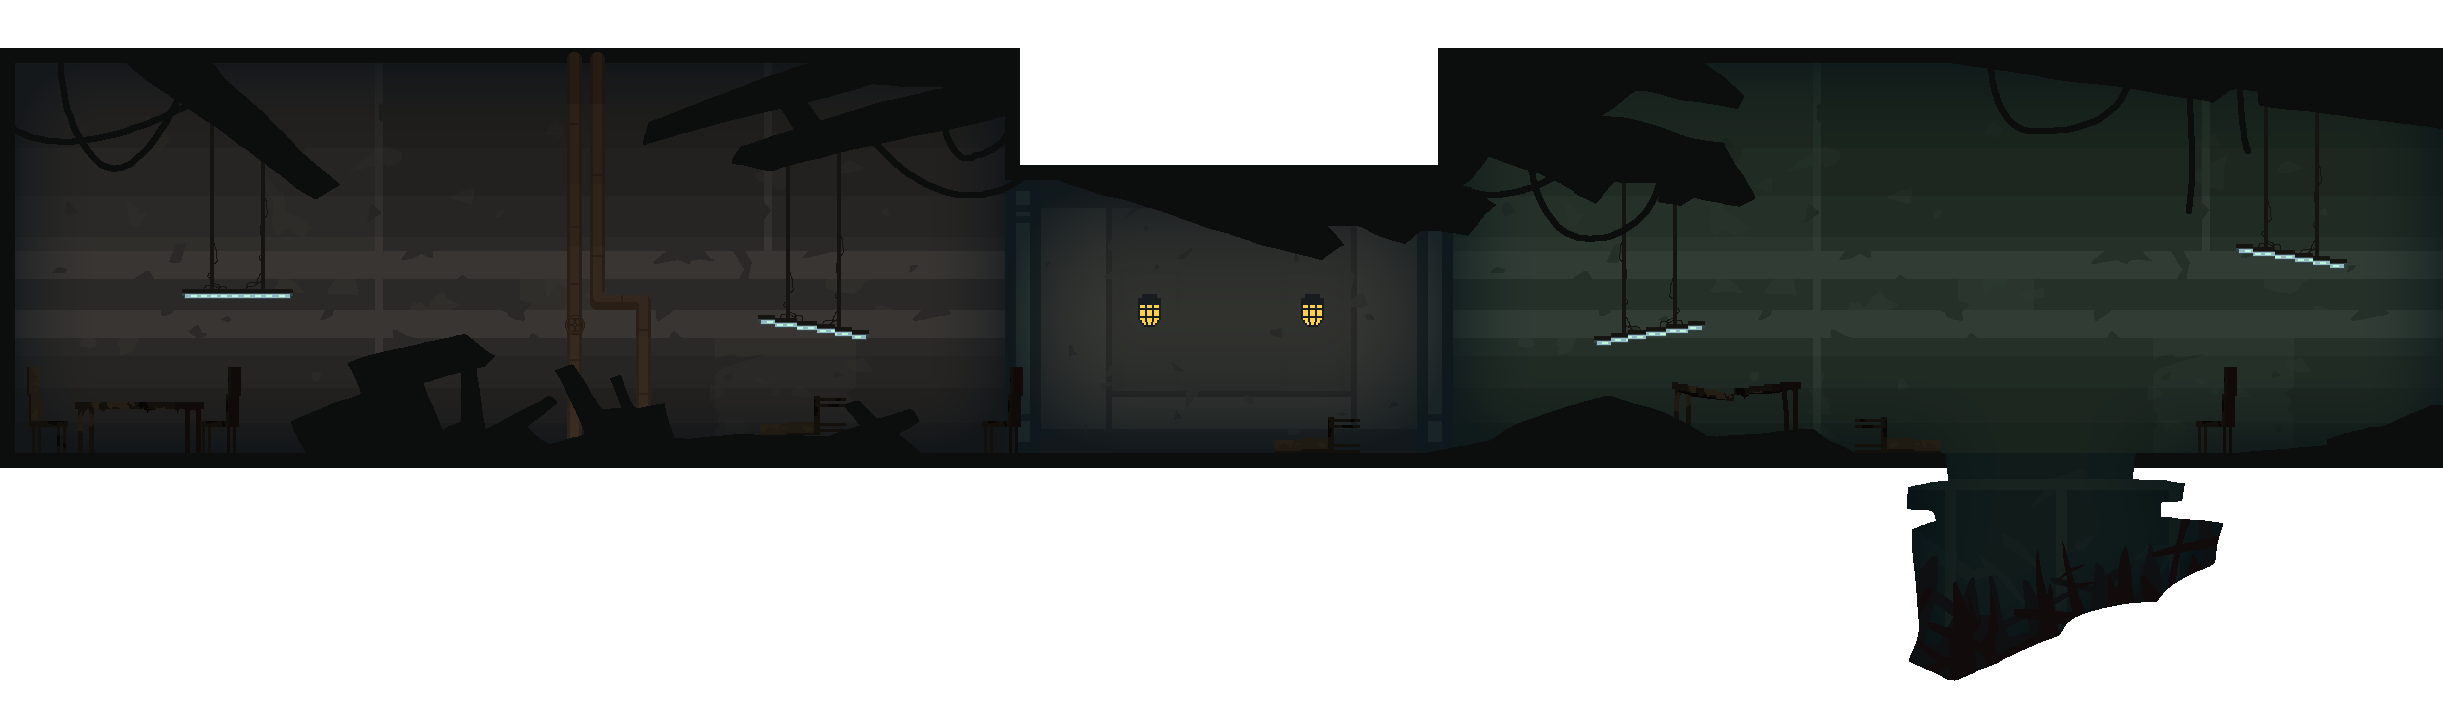
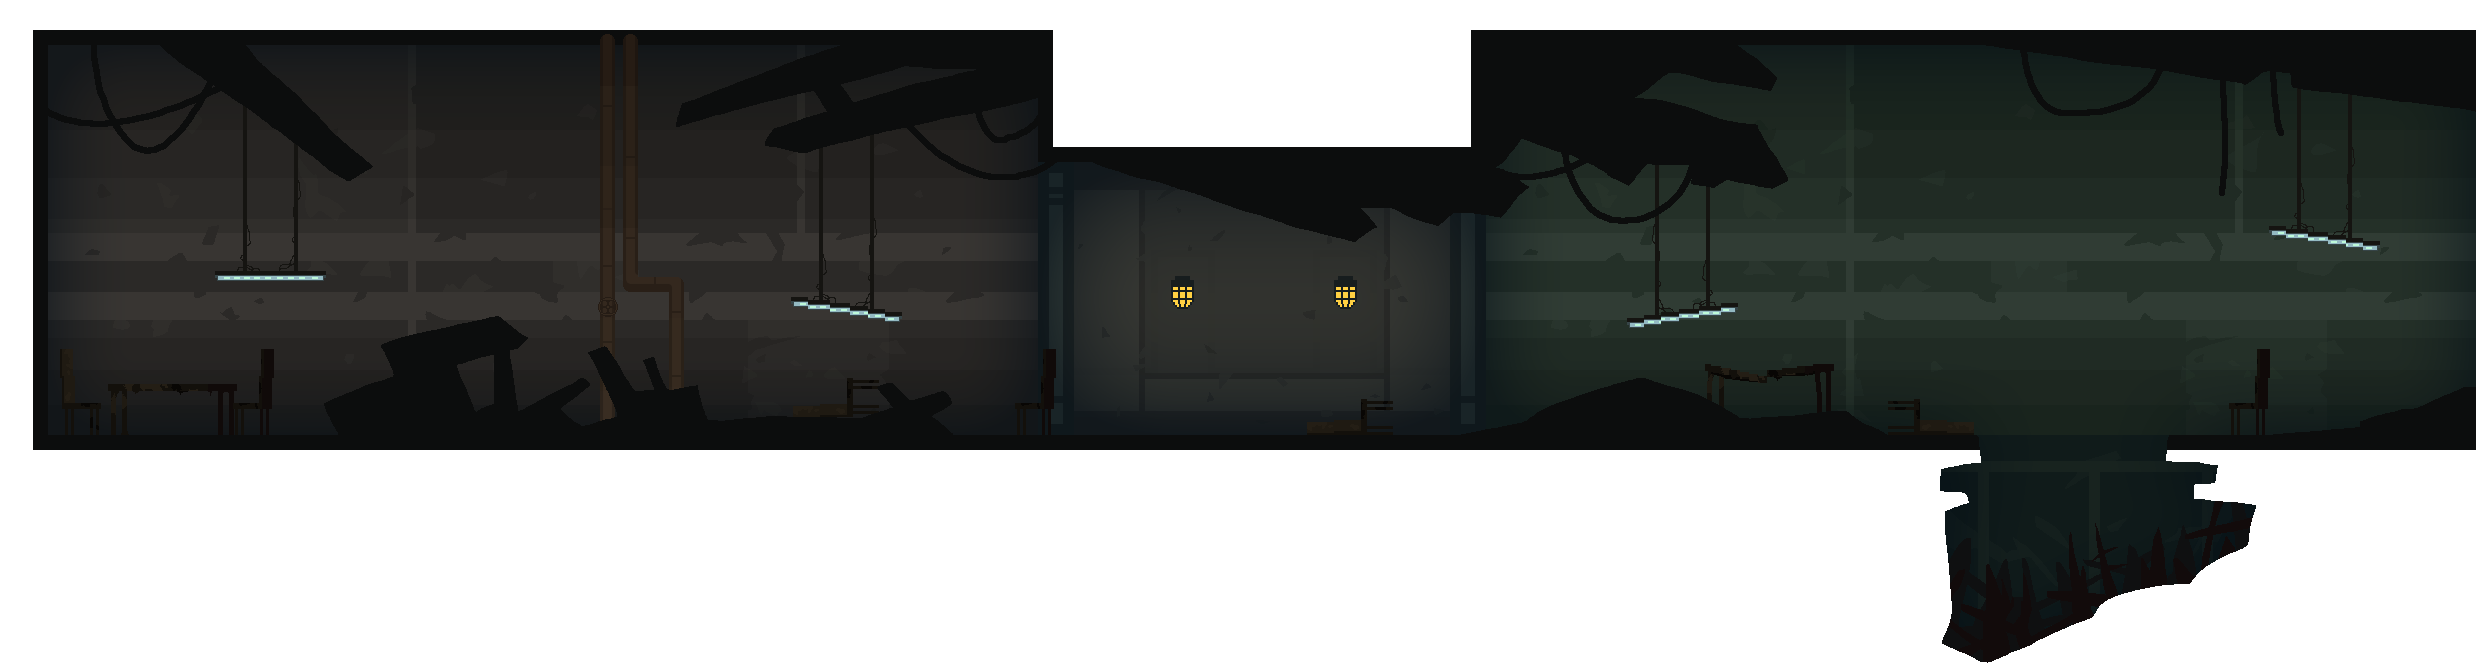
Readded lights, reimported level piecs

diff --git a/src/levels/Level1Good.cs b/src/levels/Level1Good.cs
@@ -26,28 +26,28 @@ namespace Vest.levels
             Lights = new LightOverlay(G.Gfx);
             Lights.AmbientColor = new Color(175, 175, 175);
 
-            CCollision(new Vector2(49, 422), new Vector2(4202, 423), new Vector2(4202, 434), new Vector2(47, 437)); // FLOOR
+            CCollision(new Vector2(49, 440), new Vector2(4202, 440), new Vector2(4202, 450), new Vector2(47, 450)); // FLOOR
             CCollision(new Vector2(33, 18), new Vector2(47, 18), new Vector2(47, 435), new Vector2(33, 437)); // WALL LEFT
             CCollision(new Vector2(4201, 104), new Vector2(4217, 104), new Vector2(4218, 446), new Vector2(4195, 445)); // WALL RIGHT
 
             // Chandoliers
-            CLight(350, Color.White, G.Content.Load<Texture2D>("branches/branch1/l_round"), new Vector2(246, 205));
-            CLight(350, Color.White, G.Content.Load<Texture2D>("branches/branch1/l_round"), new Vector2(836, 196));
+            CLight(200, Color.White, G.Content.Load<Texture2D>("branches/branch1/l_round"), new Vector2(246, 205));
+            CLight(200, Color.White, G.Content.Load<Texture2D>("branches/branch1/l_round"), new Vector2(836, 196));
             // Hallway Lights
-            CLight(200, Color.White, G.Content.Load<Texture2D>("branches/branch1/l_roundUp"), new Vector2(3646, 276 - 60));
-            CLight(200, Color.White, G.Content.Load<Texture2D>("branches/branch1/l_roundUp"), new Vector2(3483, 276 - 60));
-            CLight(200, Color.White, G.Content.Load<Texture2D>("branches/branch1/l_roundUp"), new Vector2(2781, 281 - 60));
-            CLight(200, Color.White, G.Content.Load<Texture2D>("branches/branch1/l_roundUp"), new Vector2(2625, 274 - 60));
-            CLight(200, Color.White, G.Content.Load<Texture2D>("branches/branch1/l_roundUp"), new Vector2(1342, 277 - 60));
-            CLight(200, Color.White, G.Content.Load<Texture2D>("branches/branch1/l_roundUp"), new Vector2(1185, 277 - 60));
+            CLight (91, Color.White, G.Content.Load<Texture2D> ("branches/branch1/l_roundUp"), new Vector2 (3646, 276 + 10));
+            CLight (91, Color.White, G.Content.Load<Texture2D> ("branches/branch1/l_roundUp"), new Vector2 (3483, 276 + 10));
+            CLight (91, Color.White, G.Content.Load<Texture2D> ("branches/branch1/l_roundUp"), new Vector2 (2781, 281 - 60));
+            CLight (91, Color.White, G.Content.Load<Texture2D> ("branches/branch1/l_roundUp"), new Vector2 (2625, 274 - 60));
+            CLight (91, Color.White, G.Content.Load<Texture2D> ("branches/branch1/l_roundUp"), new Vector2 (1342, 277 - 10));
+            CLight (91, Color.White, G.Content.Load<Texture2D> ("branches/branch1/l_roundUp"), new Vector2 (1185, 277 - 10));
             // Party Lights (Down)
-            var light = CLight(100, Color.White, G.Content.Load<Texture2D>("branches/branch1/l_dir"), new Vector2(1848, 83 + 200));
-            CLight(100, Color.White, G.Content.Load<Texture2D>("branches/branch1/l_dir"), new Vector2(1957, 83 + 200));
-            CLight(100, Color.White, G.Content.Load<Texture2D>("branches/branch1/l_dir"), new Vector2(2058, 83));
-            CLight(100, Color.White, G.Content.Load<Texture2D>("branches/branch1/l_dir"), new Vector2(2111, 83));
+            CLight (200, Color.Orange, G.Content.Load<Texture2D> ("branches/branch1/l_dir"), new Vector2 (1848, 83 + 200));
+            CLight (200, Color.Red, G.Content.Load<Texture2D> ("branches/branch1/l_dir"), new Vector2 (1957, 83 + 200));
+            CLight (200, Color.Red, G.Content.Load<Texture2D> ("branches/branch1/l_dir"), new Vector2 (2058, 83 + 200));
+            CLight (200, Color.Orange, G.Content.Load<Texture2D> ("branches/branch1/l_dir"), new Vector2 (2111, 83 + 200));
             // Party Lights (Forward)
-            CLight(100, Color.White, G.Content.Load<Texture2D>("branches/branch1/l_roundDown"), new Vector2(1906, 83));
-            CLight(100, Color.White, G.Content.Load<Texture2D>("branches/branch1/l_roundDown"), new Vector2(2005, 83));
+            CLight (50, Color.Red, G.Content.Load<Texture2D> ("branches/branch1/l_roundDown"), new Vector2 (1906, 83));
+            CLight (50, Color.Orange, G.Content.Load<Texture2D> ("branches/branch1/l_roundDown"), new Vector2 (2005, 83));
         
             elevatorTrigger = CTrigger(true, false, new Polygon(new Vector2[]
             {

diff --git a/src/state/EditorState.cs b/src/state/EditorState.cs
@@ -31,7 +31,7 @@ namespace Vest.state
             EditorViewController view;
             ManualCamera2D cam;
 
-            VestLevel level;
+            CombiLevel level;
             OSpriteBatch batch;
             SpriteBatch uiBatch;
             DrawHelper helper;
@@ -47,7 +47,6 @@ namespace Vest.state
 
             public override void Load()
             {
-                VestLevel LEVEL_TO_EDIT = new Branch1();
 
                 batch = new OSpriteBatch (G.Gfx);
                 uiBatch = new SpriteBatch (G.Gfx);
@@ -57,8 +56,7 @@ namespace Vest.state
                 view.SetSize (G.SCREEN_WIDTH, G.SCREEN_HEIGHT);
                 cam = new ManualCamera2D (G.SCREEN_WIDTH, G.SCREEN_HEIGHT, G.Gfx);
 
-                level = LEVEL_TO_EDIT;
-                level.Load (cam);
+                level = new CombiLevel1 (cam);
 
                 font = G.Content.Load<SpriteFont> ("font");
             }
@@ -69,6 +67,8 @@ namespace Vest.state
 
             public override void Update(float dt)
             {
+                level.Update (dt);
+
                 currMouse = Mouse.GetState();
 
                 view.Update();
@@ -85,26 +85,27 @@ namespace Vest.state
                 if (prevMouse.MiddleButton == ButtonState.Released && currMouse.MiddleButton == ButtonState.Pressed)
                     FlushPolyBuffer();
 
+                var padState = GamePad.GetState(PlayerIndex.One);
+                if (padState.DPad.Up == ButtonState.Pressed)
+                    level.targetInsanity = 1;
+
+                if (padState.DPad.Down == ButtonState.Pressed)
+                    level.targetInsanity = 0;
+
                 prevMouse = currMouse;
             }
 
             public override void Draw()
             {
                 G.Gfx.Clear (Color.CornflowerBlue);
-                batch.Begin (SpriteSortMode.Immediate, BlendState.AlphaBlend, cam.Transformation);
-                level.Draw(batch);
-                batch.End ();
-
-                helper.DrawPolys (level.Collision, cam.Transformation, Color.Red);
-                level.Triggers.ForEach (t => {
-                    helper.DrawPolys (t.collisionPolys, cam.Transformation, Color.Green);
-                });
+                level.Draw (batch, cam, null);
+                level.DrawDebug (batch, cam, helper);
 
                 if (bufferedPoly != null)
                     helper.DrawPolys (new [] {bufferedPoly}, cam.Transformation, Color.Green);
                 
                 uiBatch.Begin();
-                uiBatch.DrawString (font, String.Format ("{0}, {1}", mouseWorldPos.X, mouseWorldPos.Y), Vector2.Zero, Color.Yellow);
+                uiBatch.DrawString (font, String.Format ("{0:0}, {1:0}", mouseWorldPos.X, mouseWorldPos.Y), Vector2.Zero, Color.Yellow);
                 uiBatch.End();
             }
 

diff --git a/src/levels/CombiLevel.cs b/src/levels/CombiLevel.cs
@@ -5,6 +5,7 @@ using System.Text;
 using Microsoft.Xna.Framework;
 using Microsoft.Xna.Framework.Graphics;
 using Vest.graphics;
+using Vest.utilities;
 
 namespace Vest.levels
 {
@@ -27,7 +28,8 @@ namespace Vest.levels
         public float t;
         public float insanity;
         public float targetInsanity;
-        const float insanityChange = 0.2f / 1000f;
+
+        const float insanityChange = 1f / 1000f;
 
         public CombiLevel(ManualCamera2D cam, VestLevel Good, VestLevel Bad)
         {
@@ -86,7 +88,7 @@ namespace Vest.levels
             fs.Close();
         }
 
-        public void Draw(OSpriteBatch batch, ManualCamera2D cam, Player player)
+        public void Draw (OSpriteBatch batch, ManualCamera2D cam, Player player)
         {
             Blending.SetCam(cam);
 
@@ -95,7 +97,7 @@ namespace Vest.levels
             G.Gfx.Clear(Color.Black);
             batch.Begin(SpriteSortMode.FrontToBack, BlendState.AlphaBlend, cam.Transformation);
             Good.Draw(batch);
-            player.Draw(batch);
+            if (player != null) player.Draw(batch);
             batch.End();
             Good.Lights.Apply(batch);
             G.Gfx.SetRenderTarget(null);
@@ -105,7 +107,7 @@ namespace Vest.levels
             G.Gfx.Clear(Color.Black);
             batch.Begin(SpriteSortMode.FrontToBack, BlendState.AlphaBlend, cam.Transformation);
             Bad.Draw(batch);
-            player.Draw(batch);
+            if (player != null) player.Draw (batch);
             batch.End();
             Bad.Lights.Apply(batch);
             G.Gfx.SetRenderTarget(null);
@@ -121,6 +123,20 @@ namespace Vest.levels
             internalBatch.Begin(SpriteSortMode.Immediate, BlendState.Opaque, null, null, null, BlendEffect, Matrix.Identity);
             internalBatch.Draw(GoodTarget, Vector2.Zero, Color.White);
             internalBatch.End();
+        }
+
+        public void DrawDebug(OSpriteBatch batch, ManualCamera2D cam, DrawHelper helper)
+        {
+            helper.DrawPolys (Good.Collision, cam.Transformation, Color.Red);
+            helper.DrawPolys (Bad.Collision, cam.Transformation, Color.Red);
+
+            foreach (var t in Good.Triggers.Concat (Bad.Triggers))
+            {
+                helper.DrawPolys (
+                    t.collisionPolys,
+                    cam.Transformation,
+                    Color.Green);    
+            }
         }
     }
 }

diff --git a/src/levels/CombiLevel1.cs b/src/levels/CombiLevel1.cs
@@ -19,7 +19,14 @@ namespace Vest.levels
             l.Position = new Vector2(1848, 83 + 200);
             Blending.AddLight(l);
 
-            Trigger trig = Good.CTrigger(true, false, new Polygon(new Vector2[] { new Vector2(1898, 83), new Vector2(1848, 83), new Vector2(1848, 383), new Vector2(1898, 383) }));
+            Trigger trig = Good.CTrigger(true, false, new Polygon(new Vector2[] {
+                new Vector2(1423, 183),
+                new Vector2(1536, 41),
+                new Vector2(2480, 47),
+                new Vector2(2559, 308),
+                new Vector2(2565, 441),
+                new Vector2(1416, 440)
+            }));
             trig.Entered += delegate(GameObject obj) { SetTargetInsanity(1); };
             trig.Exited += delegate(GameObject obj) { SetTargetInsanity(0); };
         }

diff --git a/src/levels/Level1Evil.cs b/src/levels/Level1Evil.cs
@@ -25,7 +25,7 @@ namespace Vest.levels
             Lights = new LightOverlay(G.Gfx);
             Lights.AmbientColor = new Color(255, 255, 255);
 
-            CCollision(new Vector2(49, 422), new Vector2(4202, 423), new Vector2(4202, 434), new Vector2(47, 437)); // FLOOR
+            CCollision (new Vector2 (49, 440), new Vector2 (4202, 440), new Vector2 (4202, 450), new Vector2 (47, 450)); // FLOOR
             CCollision(new Vector2(33, 18), new Vector2(47, 18), new Vector2(47, 435), new Vector2(33, 437)); // WALL LEFT
             CCollision(new Vector2(4201, 104), new Vector2(4217, 104), new Vector2(4218, 446), new Vector2(4195, 445)); // WALL RIGHT
         }

diff --git a/src/G.cs b/src/G.cs
@@ -64,7 +64,7 @@ namespace Vest
             Spine.Bone.yDown = true;
 
             State.Load ();
-            State.Set ("flipgame");
+            State.Set ("edit");
         }
 
         protected override void UnloadContent()

diff --git a/src/utilities/DrawHelper.cs b/src/utilities/DrawHelper.cs
@@ -8,7 +8,7 @@ using Microsoft.Xna.Framework.Graphics;
 
 namespace Vest.utilities
 {
-    class DrawHelper
+    public class DrawHelper
     {
         BasicEffect be;
         GraphicsDevice device;
